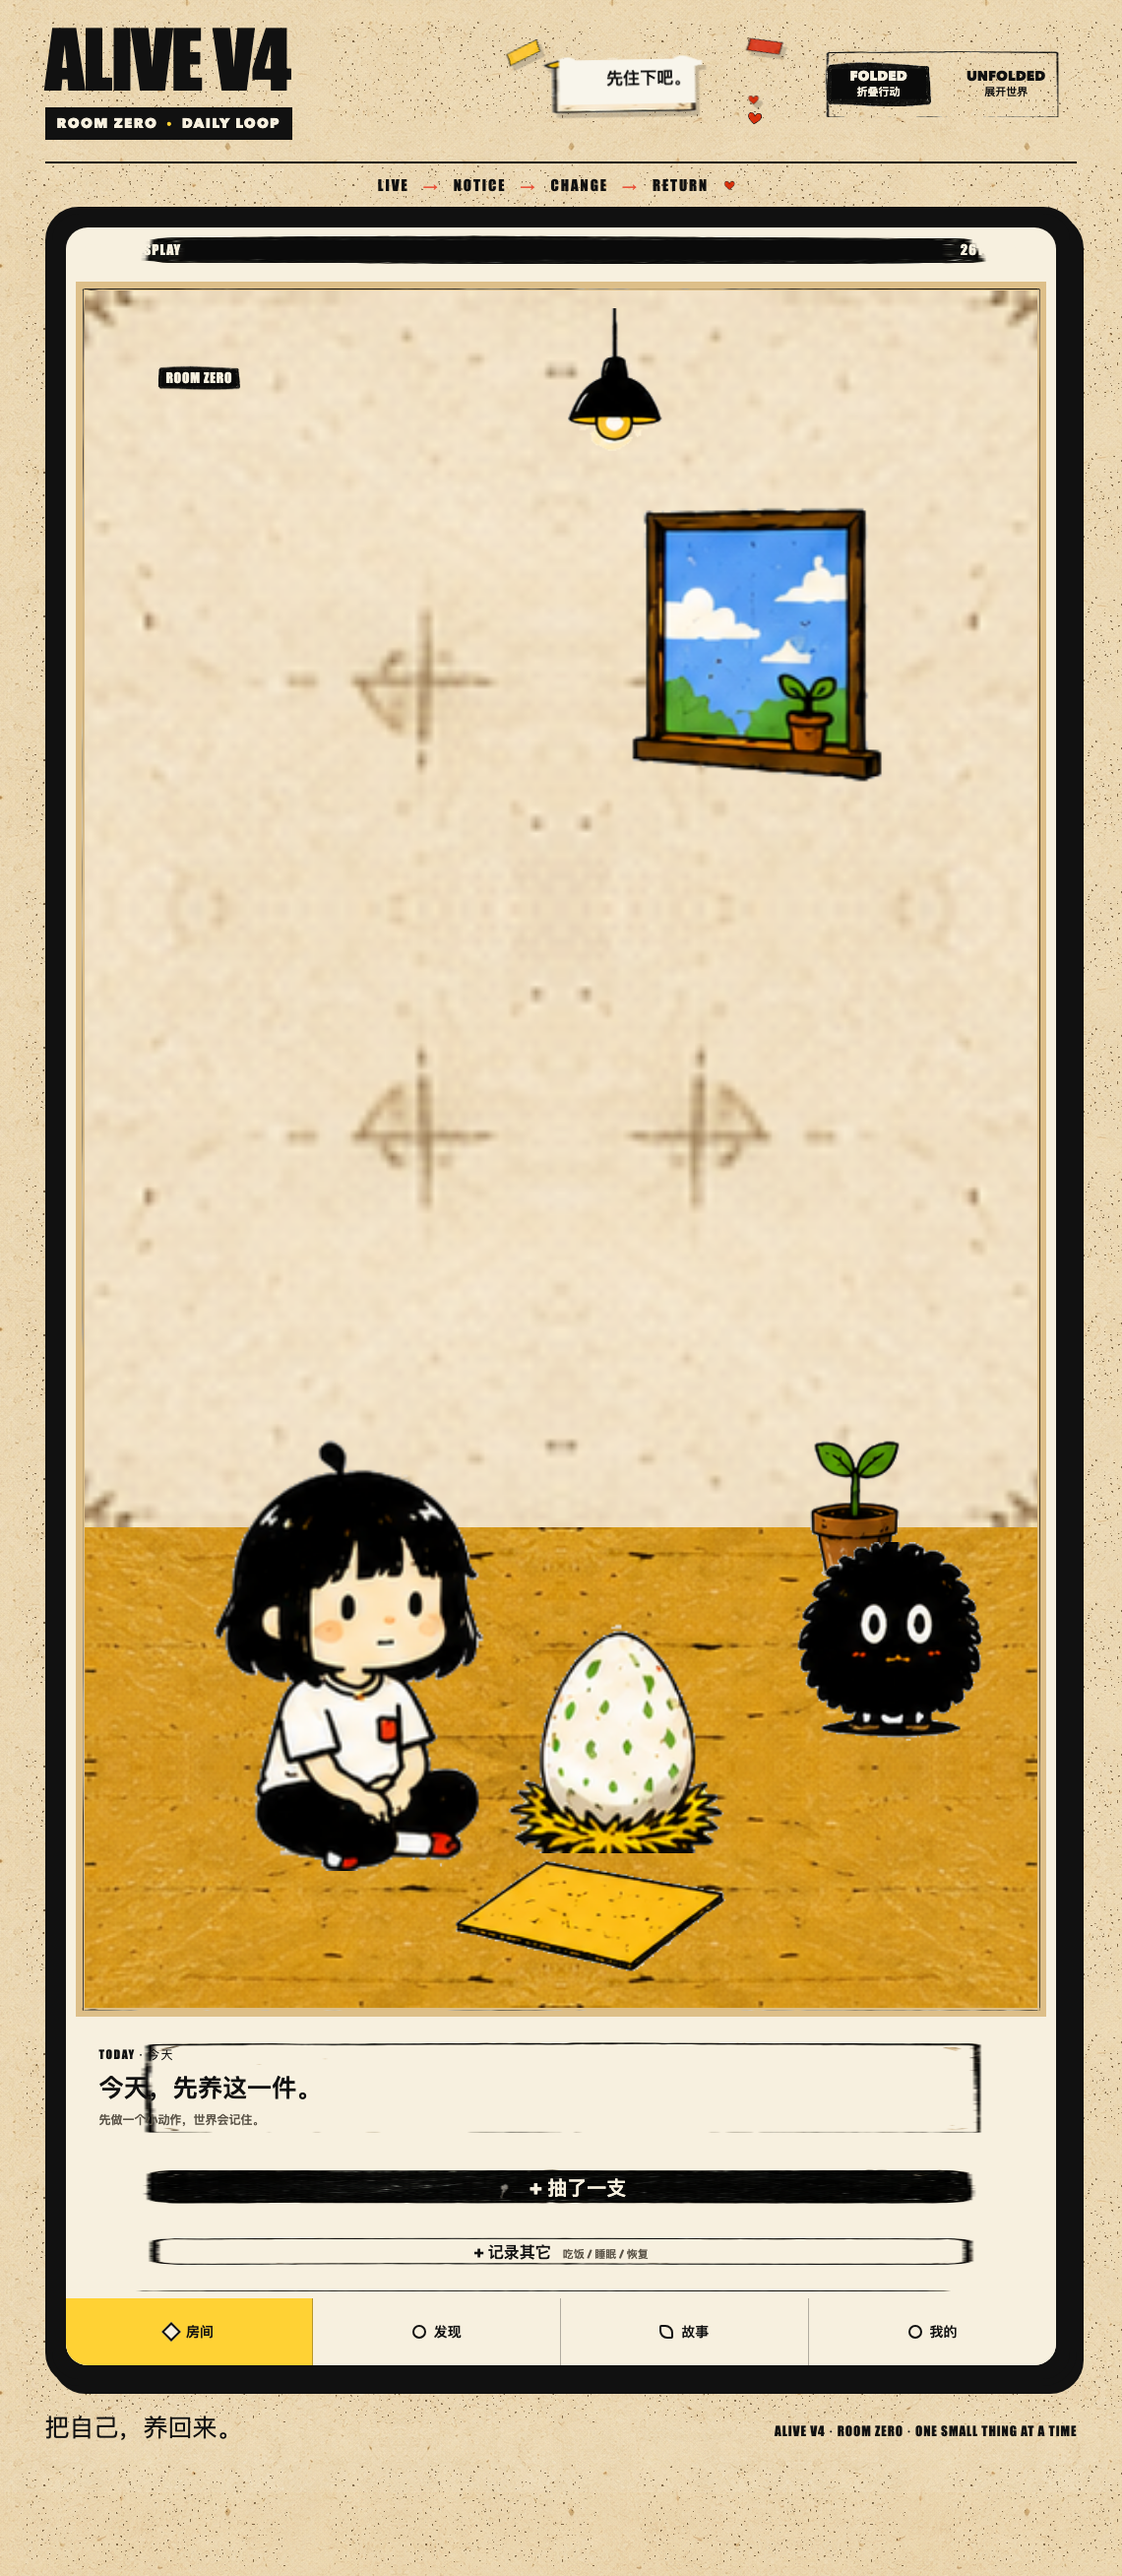
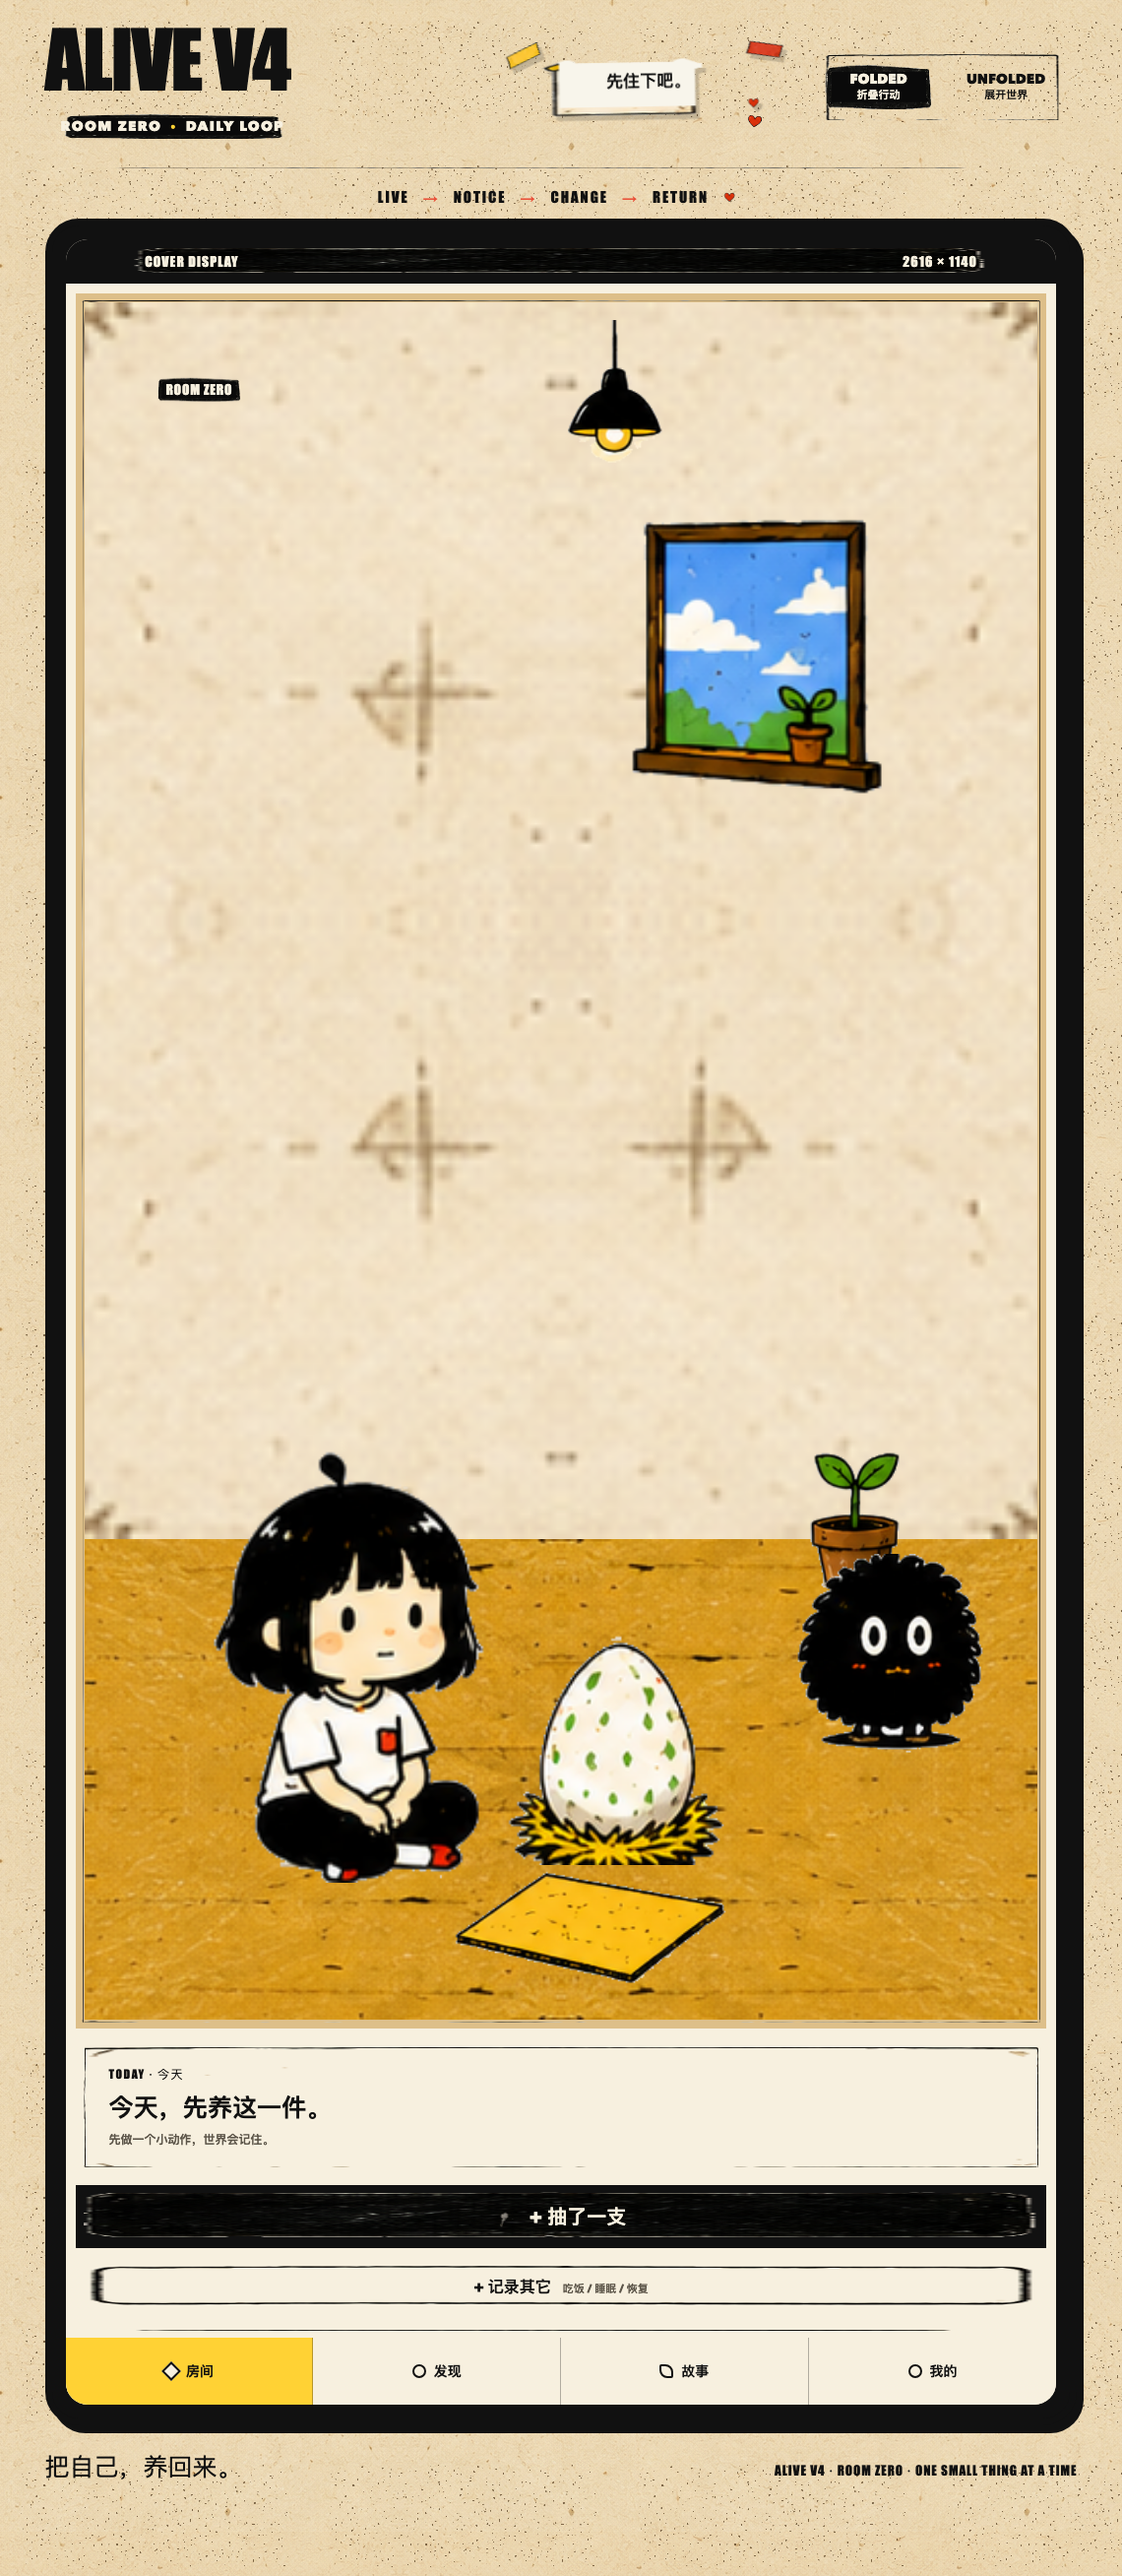
fix: align hand-drawn frames and copy

diff --git a/src/styles/app.css b/src/styles/app.css
@@ -6,7 +6,7 @@ button:focus-visible { outline: 3px solid var(--blue); outline-offset: 3px; }
 img { max-width: 100%; }
 
 .app-stage { position: relative; width: min(100%, 2480px); margin: 0 auto; padding: 28px clamp(14px, 4vw, 64px) 48px; background-color: rgba(247, 240, 223, .82); background-image: url('../../public/assets/material/texture-paper.png'), url('../../public/assets/material/grain-overlay.png'); background-size: 812px 540px, 314px 146px; background-repeat: repeat, repeat; background-blend-mode: multiply; }
-.brand-header { display: grid; grid-template-columns: minmax(0, 1.35fr) minmax(0, .8fr) minmax(0, .82fr); gap: 28px; align-items: center; padding-bottom: 22px; border-bottom: var(--rule); }
+.brand-header { display: grid; grid-template-columns: minmax(0, 1.35fr) minmax(0, .8fr) minmax(0, .82fr); gap: 28px; align-items: center; padding-bottom: 30px; background-image: url('../../public/assets/material/divider-handdrawn.png'); background-position: center bottom; background-size: 100% 13px; background-repeat: no-repeat; }
 .brand-title { font-family: var(--font-display); font-size: clamp(48px, 7vw, 92px); line-height: .82; letter-spacing: -.025em; }
 .brand-subtitle { display: inline-flex; gap: 9px; margin-top: 16px; padding: 10px 16px; color: var(--paper); background-color: transparent; background-image: url('../../public/assets/material/frame-label-black.png'); background-size: 100% 100%; font-size: 14px; font-weight: 900; letter-spacing: .09em; }
 .brand-subtitle span { color: var(--yellow); }
@@ -30,7 +30,8 @@ img { max-width: 100%; }
 
 .handheld-shell { padding: 14px; border: 7px solid var(--ink); border-radius: 34px; background: var(--ink); box-shadow: var(--heavy-shadow); }
 .screen-bezel { overflow: hidden; border: 0; border-radius: 22px; background: var(--paper); }
-.screen-label { display: flex; justify-content: space-between; padding: 14px 20px; color: var(--paper); background-color: transparent; background-image: url('../../public/assets/material/frame-label-black.png'); background-size: 100% 100%; font-family: var(--font-display); font-size: 14px; letter-spacing: .08em; }
+.screen-label { display: flex; justify-content: space-between; gap: 14px; min-width: 0; padding: 14px 8%; color: var(--paper); background-color: var(--ink); background-image: url('../../public/assets/material/frame-cta-black.png'); background-size: 100% 100%; font-family: var(--font-display); font-size: clamp(11px, 1.2vw, 16px); letter-spacing: .08em; white-space: nowrap; }
+.screen-label span { min-width: 0; overflow: hidden; text-overflow: ellipsis; }
 .unfolded-display { display: grid; grid-template-columns: minmax(0, 2fr) minmax(280px, 1fr); gap: 10px; padding: 10px; background: var(--paper); }
 .unfolded-main { min-width: 0; }
 .room-scene { position: relative; overflow: hidden; aspect-ratio: 1.78; border: 9px solid transparent; border-image: url('../../public/assets/material/frame-panel.png') 28 fill / 9px / 0 stretch; background: #ddbf89; }
@@ -54,7 +55,7 @@ img { max-width: 100%; }
 .room-note p { font-size: clamp(10px, 1vw, 15px); }
 .room-note .note-heart { display: none; }
 
-.focus-panel { display: flex; justify-content: space-between; gap: 18px; align-items: center; min-height: 112px; margin-top: 10px; padding: 20px 24px; border: 0; background-color: var(--paper); background-image: url('../../public/assets/material/frame-panel.png'); background-size: 100% 100%; }
+.focus-panel { display: flex; justify-content: space-between; gap: 18px; align-items: center; min-height: 112px; margin-top: 10px; padding: 18px 24px; border: 10px solid transparent; border-image: url('../../public/assets/material/frame-panel.png') 24 fill / 10px / 0 stretch; background-color: var(--paper); }
 .mini-kicker { display: block; margin-bottom: 7px; font-family: var(--font-display); font-size: 12px; letter-spacing: .12em; }
 .focus-copy h2 { margin: 0; font-size: clamp(21px, 2.2vw, 34px); }
 .focus-copy p { margin: 6px 0 0; color: var(--muted); font-size: 13px; font-weight: 750; }
@@ -64,34 +65,34 @@ img { max-width: 100%; }
 .meter-track { height: 11px; margin-top: 4px; border: 2px solid var(--ink); background: var(--paper); }
 .meter-track i { display: block; height: 100%; background: var(--red); }
 
-.quick-records { margin-top: 10px; padding: 19px; border: 0; background-color: var(--paper); background-image: url('../../public/assets/material/frame-panel.png'); background-size: 100% 100%; }
+.quick-records { margin-top: 10px; padding: 13px 15px; border: 10px solid transparent; border-image: url('../../public/assets/material/frame-panel.png') 24 fill / 10px / 0 stretch; background-color: var(--paper); }
 .section-heading { display: flex; justify-content: space-between; gap: 14px; align-items: baseline; margin-bottom: 12px; }
 .section-heading h2, .status-card h2, .mood-card h2 { margin: 0; font-size: clamp(18px, 1.6vw, 26px); }
 .section-heading span, .status-card .section-heading span { color: var(--muted); font-size: 12px; font-weight: 800; }
 .quick-grid { display: grid; grid-template-columns: repeat(4, 1fr); gap: 8px; }
-.record-card { position: relative; display: grid; grid-template-columns: auto 1fr; grid-template-rows: auto auto; align-items: center; min-height: 78px; padding: 13px; overflow: hidden; border: 0; background-color: transparent; background-image: url('../../public/assets/material/frame-button-secondary.png'); background-size: 100% 100%; text-align: left; }
+.record-card { position: relative; display: grid; grid-template-columns: auto 1fr; grid-template-rows: auto auto; align-items: center; min-height: 78px; padding: 10px; overflow: hidden; border: 8px solid transparent; border-image: url('../../public/assets/material/frame-button-secondary.png') 20 fill / 8px / 0 stretch; background-color: transparent; text-align: left; }
 .record-card:hover, .record-card:focus-visible { background-color: var(--yellow); }
 .record-plus { grid-row: 1 / 3; margin-right: 9px; font-family: var(--font-display); font-size: 31px; }
 .record-label { font-weight: 950; }
 .record-value { color: var(--muted); font-size: 12px; font-weight: 800; }
 .record-card img { position: absolute; right: -8px; bottom: -12px; width: 55px; max-height: 70px; object-fit: contain; opacity: .78; }
 .accent-red { border-top: 6px solid var(--red); } .accent-orange { border-top: 6px solid var(--orange); } .accent-yellow { border-top: 6px solid var(--yellow); } .accent-blue { border-top: 6px solid var(--blue); } .accent-green { border-top: 6px solid var(--green); }
-.other-record { width: 100%; margin-top: 8px; padding: 13px; border: 0; background-color: transparent; background-image: url('../../public/assets/material/frame-button-secondary.png'); background-size: 100% 100%; font-weight: 900; text-align: left; }
+.other-record { width: 100%; margin-top: 8px; padding: 10px 12px; border: 8px solid transparent; border-image: url('../../public/assets/material/frame-button-secondary.png') 20 fill / 8px / 0 stretch; background-color: transparent; font-weight: 900; text-align: left; }
 .other-record span { margin-right: 7px; font-family: var(--font-display); font-size: 24px; } .other-record small { margin-left: 8px; color: var(--muted); font-weight: 700; }
 
 .status-column { display: grid; grid-template-rows: auto auto; align-content: start; gap: 10px; min-width: 0; }
-.status-card, .mood-card, .seed-card { padding: 21px; border: 0; background-color: var(--paper); background-image: url('../../public/assets/material/frame-panel.png'); background-size: 100% 100%; }
-.status-row { display: flex; justify-content: space-between; gap: 9px; padding: 17px 0; border-top: 1.5px solid rgba(17,17,17,.38); font-size: 14px; }
+.status-card, .mood-card, .seed-card { padding: 11px 15px; border: 10px solid transparent; border-image: url('../../public/assets/material/frame-panel.png') 24 fill / 10px / 0 stretch; background-color: var(--paper); }
+.status-row { display: flex; justify-content: space-between; gap: 9px; padding: 17px 0 14px; background-image: url('../../public/assets/material/divider-handdrawn.png'); background-position: center top; background-size: 100% 8px; background-repeat: no-repeat; font-size: 14px; }
 .status-row span { display: flex; align-items: center; gap: 8px; font-weight: 800; }
 .status-row strong { font-weight: 950; }
 .status-mark { width: 12px; height: 12px; display: inline-block; border: 1.5px solid var(--ink); background: var(--ink); }
 .status-mark.red { background: var(--red); } .status-mark.orange { background: var(--orange); } .status-mark.yellow { background: var(--yellow); } .status-mark.purple { background: var(--purple); } .status-mark.blue { background: var(--blue); }
 .mood-card h2 { margin-bottom: 17px; }
 .moods { display: grid; grid-template-columns: repeat(3, 1fr); gap: 9px; }
-.mood { min-height: 62px; border: 0; background-color: transparent; background-image: url('../../public/assets/material/frame-button-secondary.png'); background-size: 100% 100%; font-weight: 900; }
+.mood { min-height: 62px; border: 8px solid transparent; border-image: url('../../public/assets/material/frame-button-secondary.png') 20 fill / 8px / 0 stretch; background-color: transparent; font-weight: 900; }
 .mood:hover { transform: translateY(-3px); box-shadow: 3px 3px 0 var(--ink); }
 .mood.good { background-color: #a4c870; } .mood.okay { background-color: #f5cc53; } .mood.bad { background-color: #ee806b; }
-.seed-chip { display: flex; align-items: center; gap: 8px; margin-top: 15px; padding-top: 12px; border-top: 1px dashed rgba(17,17,17,.55); }
+.seed-chip { display: flex; align-items: center; gap: 8px; margin-top: 15px; padding-top: 12px; background-image: url('../../public/assets/material/divider-handdrawn.png'); background-position: center top; background-size: 100% 8px; background-repeat: no-repeat; }
 .seed-chip img { width: 40px; height: 48px; object-fit: contain; }
 .seed-chip b { font-family: var(--font-display); font-size: 26px; } .seed-chip small { color: var(--muted); font-size: 10px; font-weight: 750; }
 
@@ -121,10 +122,10 @@ img { max-width: 100%; }
 [data-mode="folded"] .focus-copy p { font-size: 12px; }
 [data-mode="folded"] .focus-meter { display: none; }
 .primary-action, .secondary-action { width: 100%; margin-top: 10px; border: 0; font-weight: 950; }
-.primary-action { display: flex; justify-content: center; align-items: center; gap: 9px; min-height: 62px; padding: 10px 16px; color: var(--paper); background-color: transparent; background-image: url('../../public/assets/material/frame-cta-black.png'); background-size: 100% 100%; font-size: 20px; }
+.primary-action { display: flex; justify-content: center; align-items: center; gap: 9px; min-height: 62px; padding: 10px 16px; color: var(--paper); background-color: var(--ink); border: 8px solid transparent; border-image: url('../../public/assets/material/frame-cta-black.png') 20 fill / 8px / 0 stretch; font-size: 20px; }
 .primary-action img { width: 25px; height: 25px; object-fit: contain; }
 .primary-action:hover { color: var(--ink); background-color: var(--yellow); }
-.secondary-action { min-height: 48px; padding: 13px; background-color: transparent; background-image: url('../../public/assets/material/frame-button-secondary.png'); background-size: 100% 100%; } .secondary-action span { margin-left: 8px; color: var(--muted); font-size: 11px; }
+.secondary-action { min-height: 48px; padding: 10px 13px; background-color: transparent; border: 8px solid transparent; border-image: url('../../public/assets/material/frame-button-secondary.png') 20 fill / 8px / 0 stretch; } .secondary-action span { margin-left: 8px; color: var(--muted); font-size: 11px; }
 
 @media (max-width: 860px) {
   .brand-header { grid-template-columns: 1fr 1fr; gap: 18px; }

diff --git a/src/layout/shell.js b/src/layout/shell.js
@@ -27,7 +27,7 @@ function roomScene({ smokeEncountered }) {
       <img class="room-asset egg-asset" src="${scene.assets.egg}" alt="神秘蛋">
       <img class="room-asset resident-asset" src="${scene.assets.resident}" alt="詹詹坐在房间里">
       ${smokeEncountered ? `<img class="room-asset smoke-asset" src="${scene.assets.smoke}" alt="烟雾兽出现">` : ''}
-      ${note('Take a breath.\\n先住下吧。', 'room-note')}
+      ${note('Take a breath.\n先住下吧。', 'room-note')}
     </div>`;
 }
 

diff --git a/design-qa.md b/design-qa.md
@@ -1,10 +1,10 @@
 # ALIVE V4 clean-room · first-screen visual QA
 
-final result: passed
+visual review: ready for user sign-off
 
 Reference: `/Users/Jenny/Desktop/alive排版.png` plus the supplied `alive 01–05.png` and `kit1–9.png` visual kits.
 
-Captured states:
+Captured states (redo4):
 
 - 390×844 folded cover viewport: `outputs/qa/folded-390x844.png`
 - 1140×2616 folded cover viewport: `outputs/qa/folded-1140x2616.png`
@@ -20,5 +20,7 @@ Checks completed:
 - Entry points and asset references are repository-relative so a GitHub Pages project URL can load the app on mobile.
 - Mode switching and the five first-stage record actions are interactive; state remains intentionally in memory until the persistence phase.
 - Automated tests: 5/5 passed.
+
+Current review note: GitHub publication is intentionally paused until the visual version is signed off.
 
 Follow-up notes for Phase 2: add append-only event records, Undo, Check-in, Settlement, and versioned local persistence without changing this layout contract.
